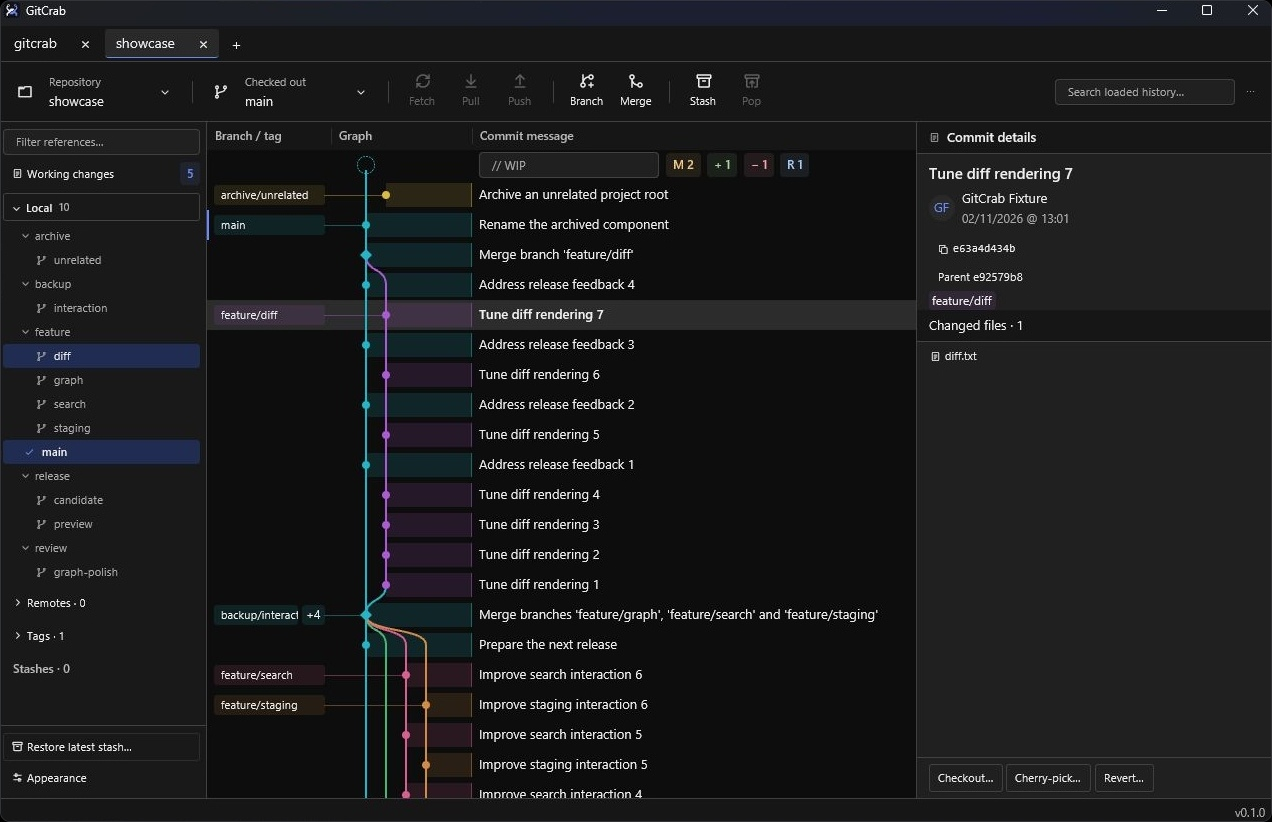
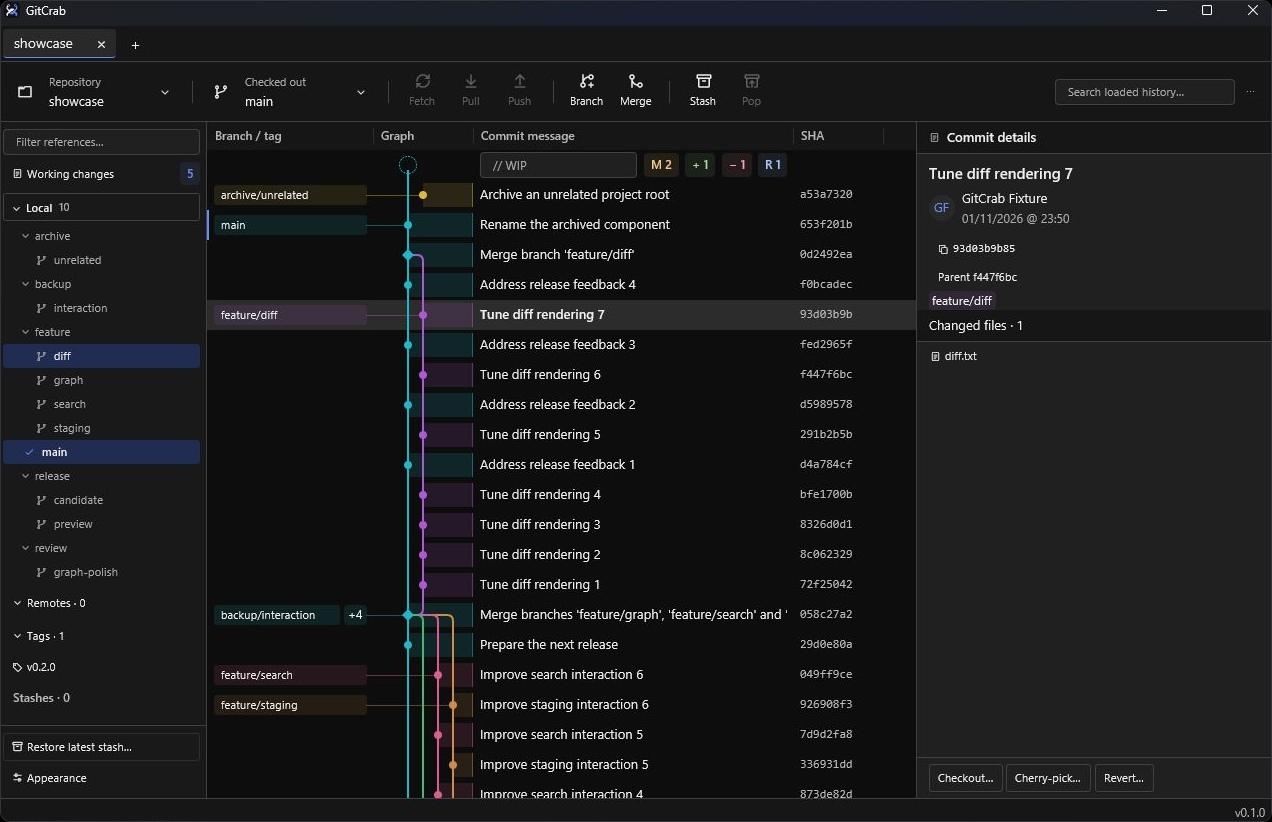
docs: refresh workspace screenshot

diff --git a/README.md b/README.md
@@ -13,7 +13,7 @@
   <a href="#contributing">Contributing</a>
 </p>
 
-![GitCrab workspace with repository tabs, a color-coded commit graph, and the selected commit’s details](docs/images/gitcrab-workspace.jpg)
+![GitCrab workspace with a branch sidebar, a color-coded commit graph, and the selected commit’s details](docs/images/gitcrab-workspace.jpg)
 
 ## Install
 
